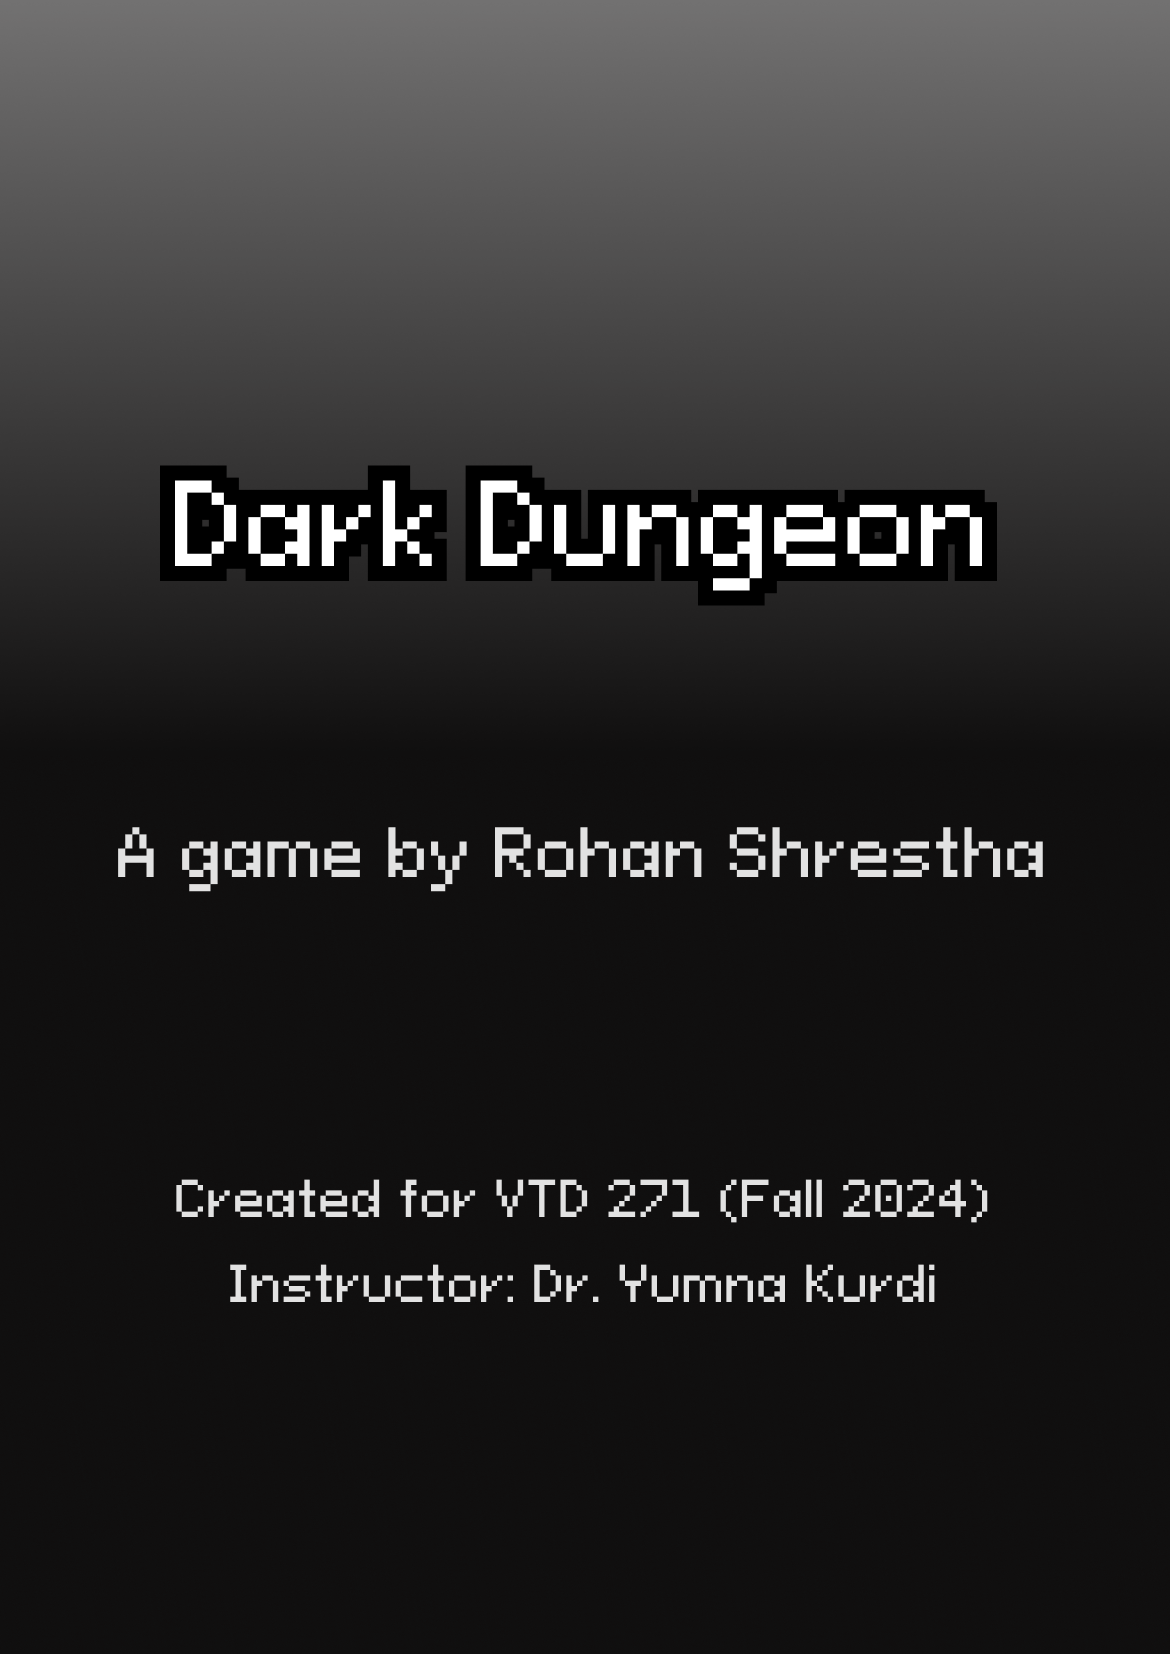
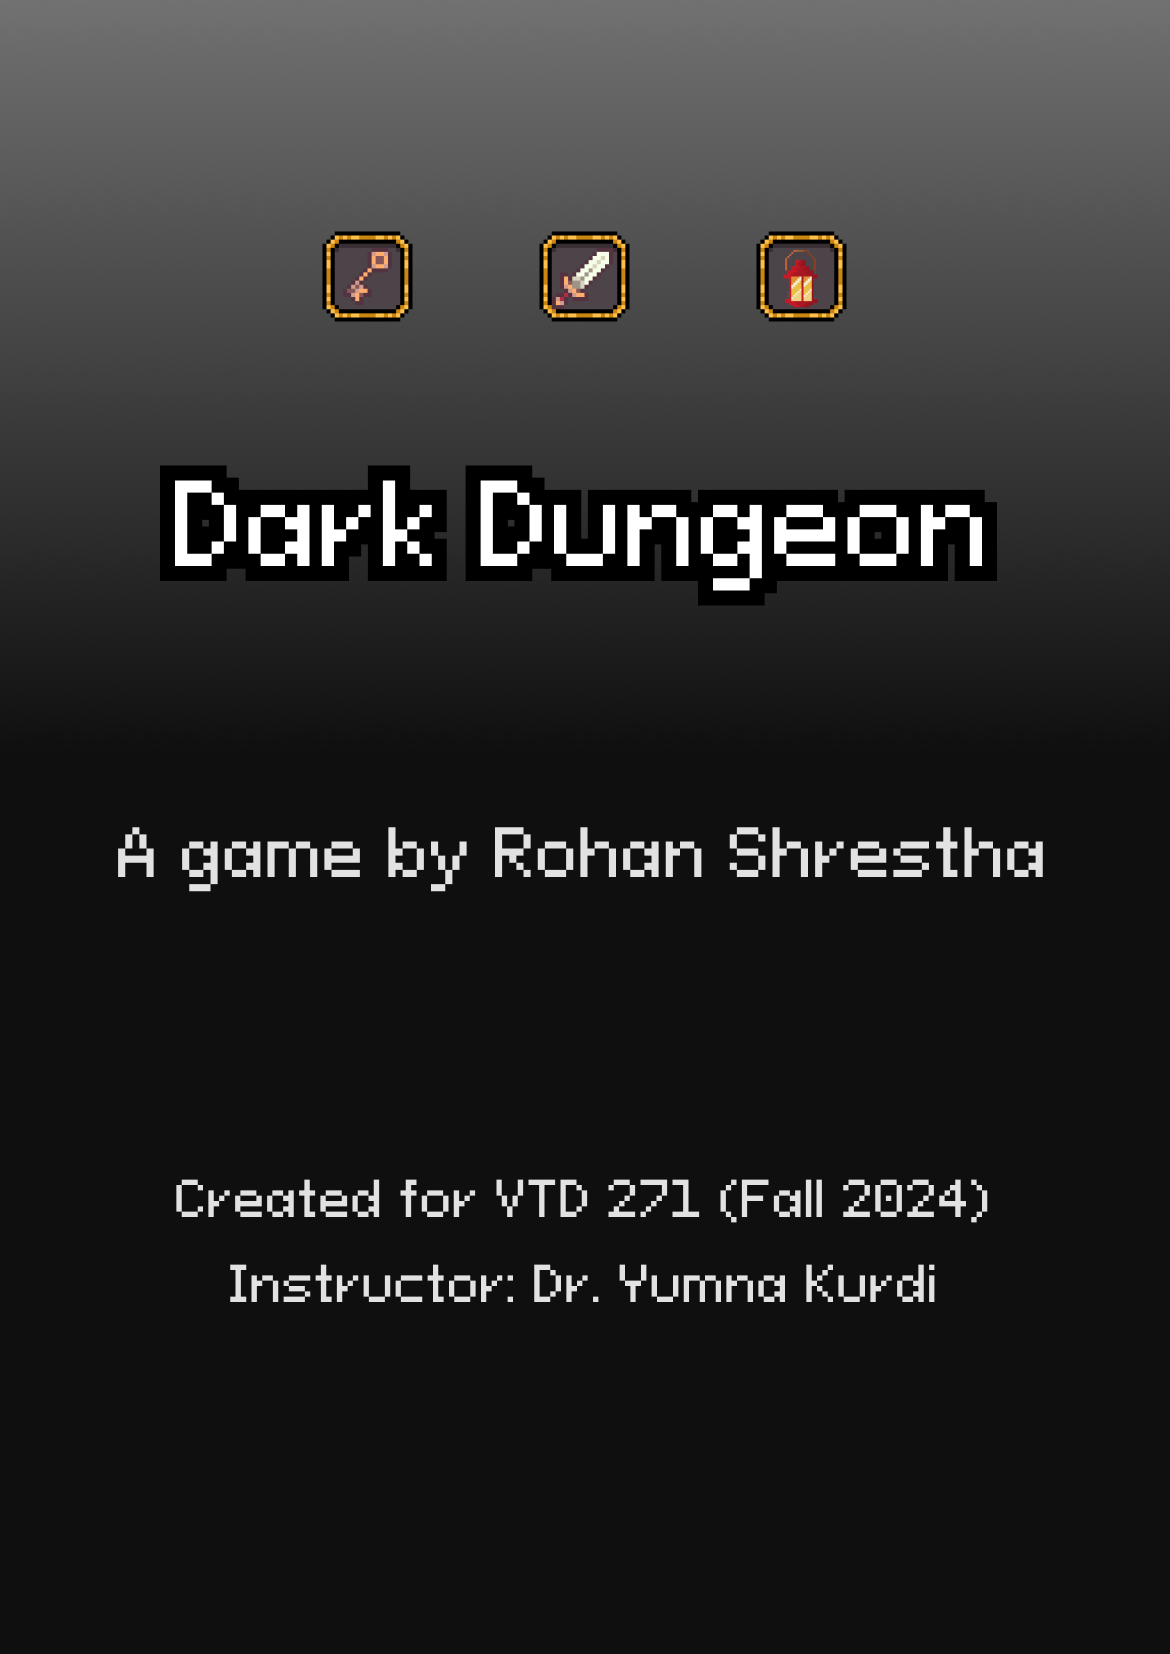
Changed initial setup

Changed region(s): [[0.6462, 0.1233, 0.7385, 0.2158], [0.4615, 0.1233, 0.5538, 0.2158], [0.2769, 0.1233, 0.3692, 0.2158]]

diff --git a/code/player.py b/code/player.py
@@ -29,8 +29,8 @@ class Player(GameSprite):
         self.stats = {
             'health': 100,
             'has_light': False,
-            'has_weapon': True,
-            'has_key': True,
+            'has_weapon': False,
+            'has_key': False,
             'attack': 10
         }
         self.health = self.stats['health']
